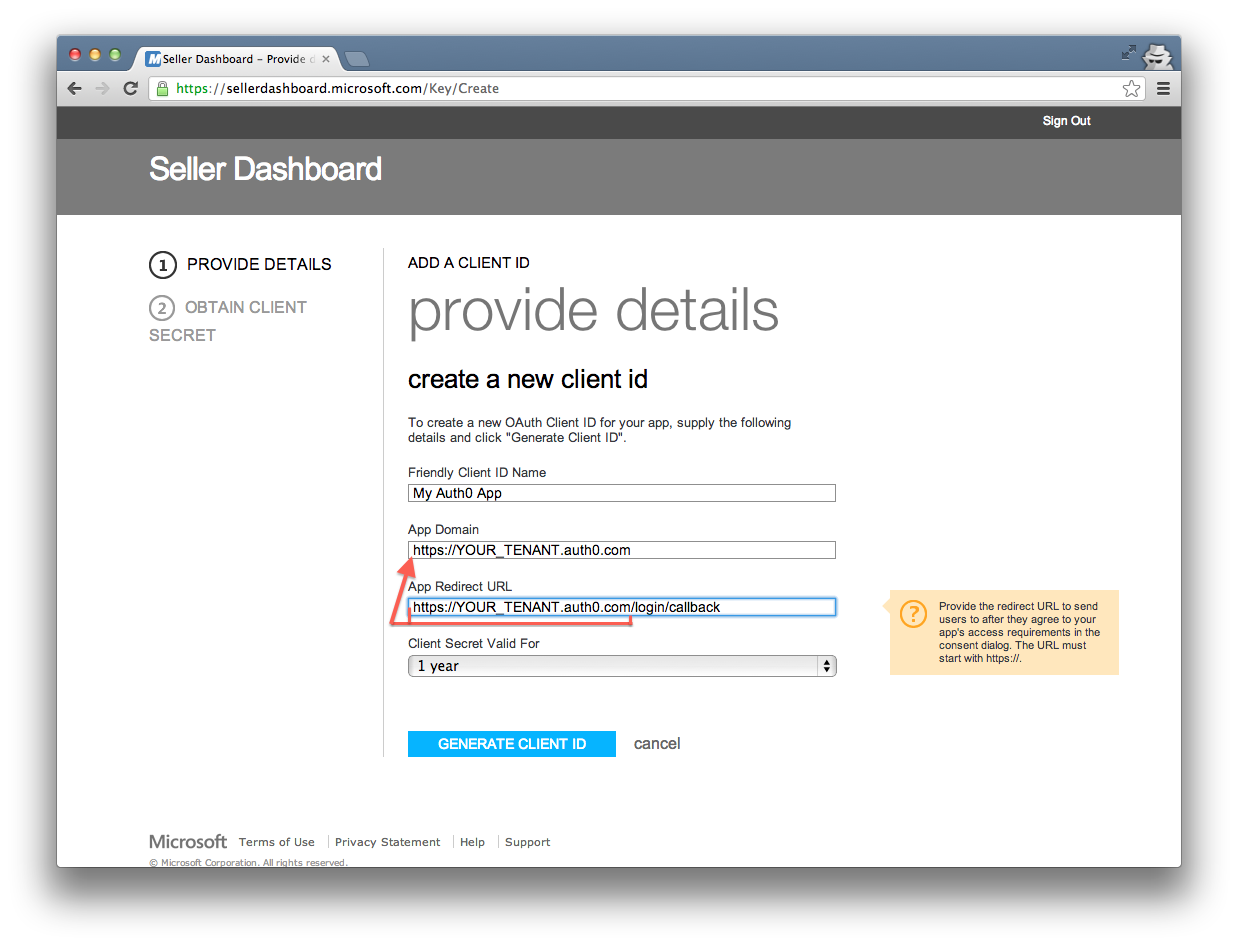
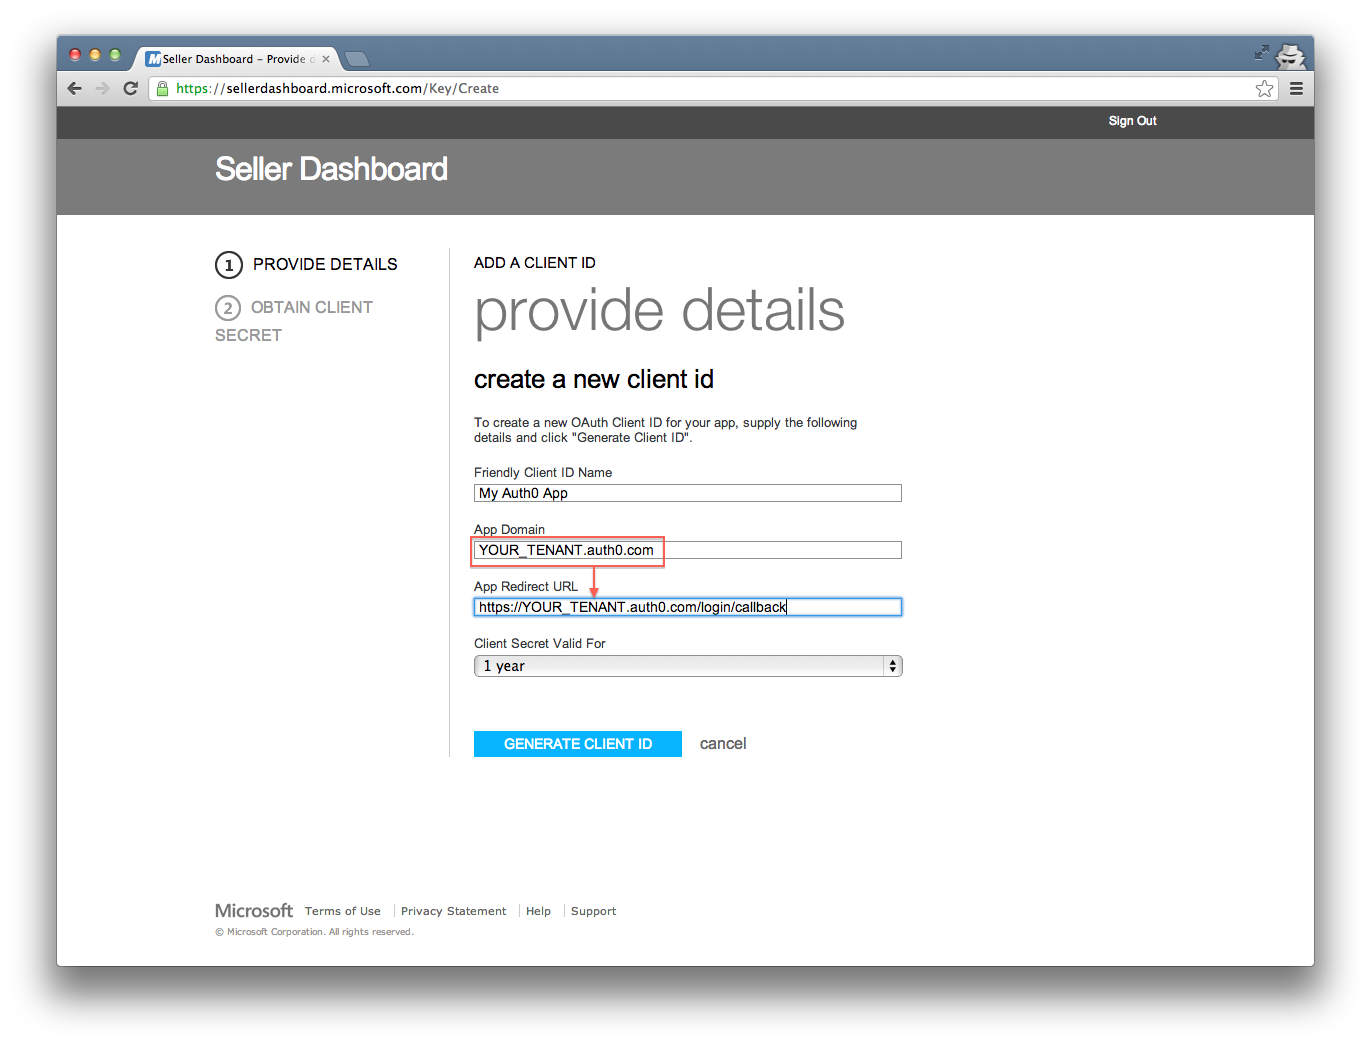
Fixed O365...again

Changed region(s): [[0.0307, 0.0307, 0.9822, 0.9503], [0.706, 0.6131, 0.9208, 0.7357], [0.3069, 0.7664, 0.5525, 0.8277]]

diff --git a/docs/o365-clientid.md b/docs/o365-clientid.md
@@ -16,8 +16,8 @@ Log into [the Seller Dashboard](https://sellerdashboard.microsoft.com), then sel
 Complete the form with your app information:
 
 * **Friendly Client ID Name**: @@account.appName@@
-* **App Domain**: @@account.namespace@@
-* **App Redirect URL**: https://@account.namespace@@/login/callback
+* **App Domain**: @@tenant@@.auth0.com
+* **App Redirect URL**: https://@@account.namespace@@/login/callback
 
 ![](img/o365-portal-3.png)
 
